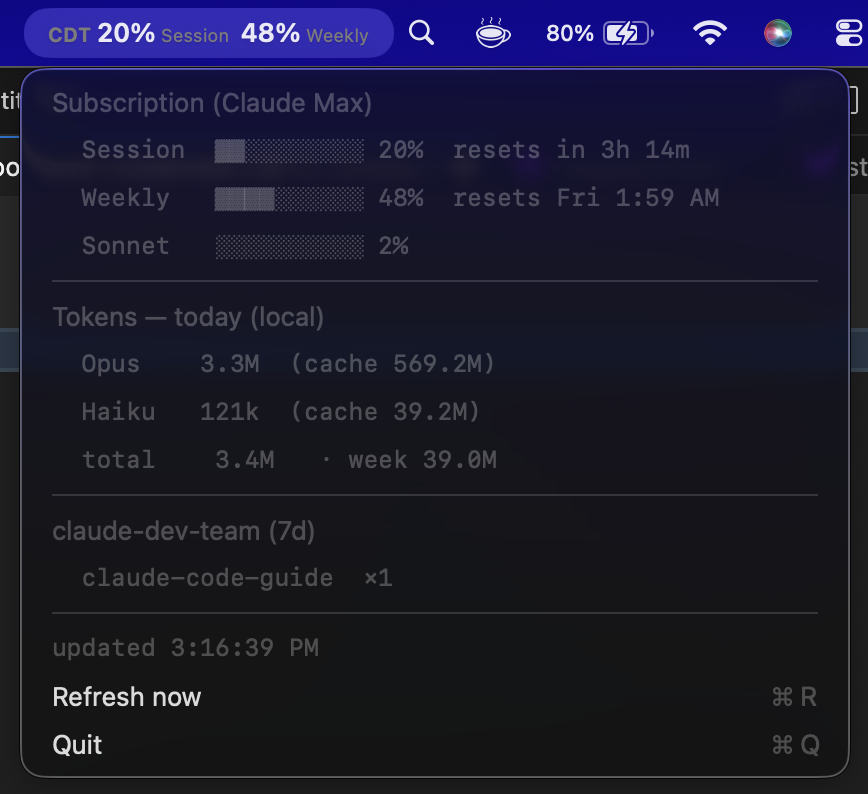
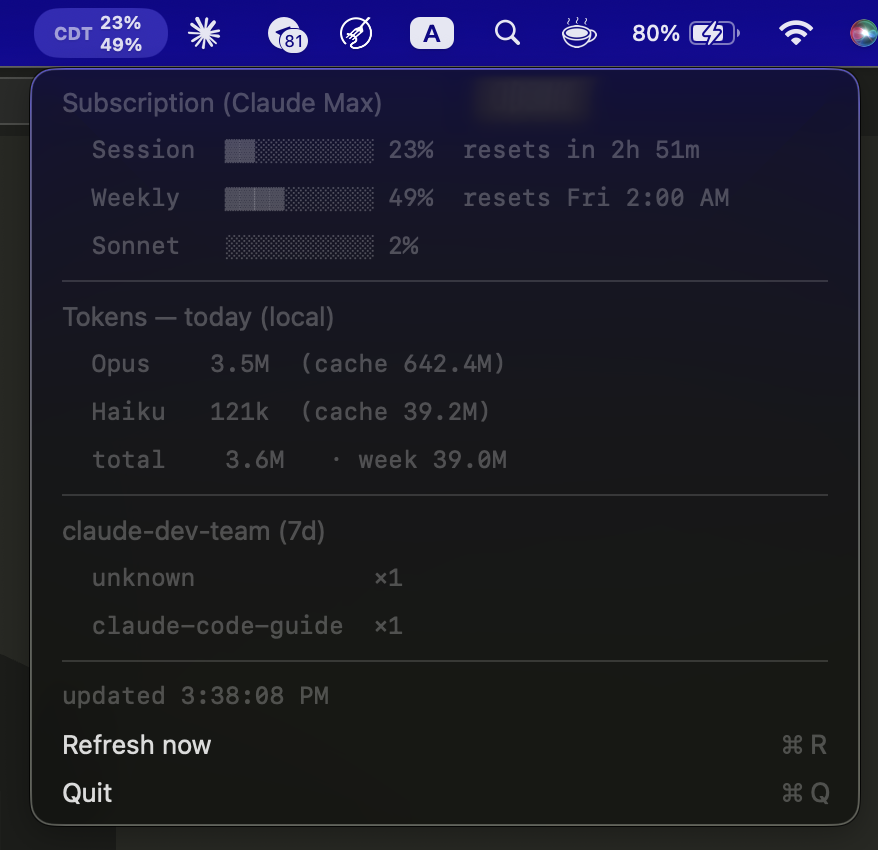
v1.4.7: show sessions in dropdown; README stacked-layout + screenshot; skip unknown agent
The menu bar dropdown's claude-dev-team (7d) panel now surfaces sessions
logged (your chats) alongside specialist subagent dispatches, so the
section reflects real activity. README menu-bar section and screenshot
updated for the stacked CDT layout. SubagentStop hook skips runs with no
identifiable agent type (no more stray 'unknown' rows).

diff --git a/menubar/Sources/cdt-menubar/MenuBarController.swift b/menubar/Sources/cdt-menubar/MenuBarController.swift
@@ -100,12 +100,16 @@ final class MenuBarController: NSObject {
         }
 
         // Dev-team activity
-        if !snap.team.agentRuns.isEmpty || !snap.team.tasksByTier.isEmpty {
+        if snap.team.sessions > 0 || !snap.team.agentRuns.isEmpty || !snap.team.tasksByTier.isEmpty {
             menu.addItem(.separator())
             header("claude-dev-team (7d)")
+            if snap.team.sessions > 0 {
+                line("  \("sessions".padding(toLength: 18, withPad: " ", startingAt: 0)) \(snap.team.sessions)")
+            }
             if !snap.team.tasksByTier.isEmpty {
                 line("  tasks: " + snap.team.tasksByTier.map { "\($0.tier)×\($0.count)" }.joined(separator: " "))
             }
+            // Subagent dispatches (specialists) — rare by design; only when the orchestrator delegates.
             for run in snap.team.agentRuns.prefix(6) {
                 line("  \(run.role.padding(toLength: 18, withPad: " ", startingAt: 0)) ×\(run.count)")
             }

diff --git a/menubar/Sources/cdt-menubar/Models.swift b/menubar/Sources/cdt-menubar/Models.swift
@@ -28,7 +28,8 @@ struct LocalUsage {
 
 // claude-dev-team activity from the SQLite DB.
 struct TeamActivity {
-    var agentRuns: [(role: String, count: Int)] = []
+    var sessions = 0                                      // chats logged in the last 7 days
+    var agentRuns: [(role: String, count: Int)] = []     // subagent dispatches (specialists), by role
     var tasksByTier: [(tier: String, count: Int)] = []
 }
 

diff --git a/menubar/Sources/cdt-menubar/LocalUsage.swift b/menubar/Sources/cdt-menubar/LocalUsage.swift
@@ -105,6 +105,8 @@ func readTeamActivity() -> TeamActivity {
         }
     }
 
+    activity.sessions = Int(query(
+        "SELECT COUNT(*) FROM sessions WHERE started >= '\(cutoff)';").first ?? "") ?? 0
     activity.agentRuns = pairs(query(
         "SELECT agent || '|' || COUNT(*) FROM agent_runs WHERE started >= '\(cutoff)' GROUP BY agent ORDER BY COUNT(*) DESC;"))
     activity.tasksByTier = pairs(query(

diff --git a/README.md b/README.md
@@ -8,7 +8,7 @@
 > writes per-agent **contracts**, dispatches **specialist subagents** in parallel, runs a **quality-gate
 > chain**, gets **independent review**, then **ships** — and remembers what it learned.
 
-![license](https://img.shields.io/badge/license-MIT-blue) ![version](https://img.shields.io/badge/version-1.4.6-green) ![claude code](https://img.shields.io/badge/Claude%20Code-plugin-7C3AED) [![validate](https://github.com/jaysonventura/claude-dev-team/actions/workflows/ci.yml/badge.svg)](https://github.com/jaysonventura/claude-dev-team/actions/workflows/ci.yml)
+![license](https://img.shields.io/badge/license-MIT-blue) ![version](https://img.shields.io/badge/version-1.4.7-green) ![claude code](https://img.shields.io/badge/Claude%20Code-plugin-7C3AED) [![validate](https://github.com/jaysonventura/claude-dev-team/actions/workflows/ci.yml/badge.svg)](https://github.com/jaysonventura/claude-dev-team/actions/workflows/ci.yml)
 
 It is built to be **cost-effective on Claude Max while staying high quality**: cheap work stays cheap
 (most tasks need no team), and the expensive machinery only engages when complexity or risk demands it.
@@ -337,10 +337,13 @@ Code's `/cost`.
 
 ## Menu bar usage monitor (macOS)
 
-A native Swift app (`menubar/`) puts your usage in the menu bar as **`CDT <session%> <weekly%>`** (each
-% color-coded 80/90) — the **real subscription %** (current session, weekly all-models, weekly Sonnet,
-with reset countdowns) from Anthropic's `oauth/usage` endpoint, **plus** accurate local token usage by
-model and dev-team activity in the dropdown.
+A native Swift app (`menubar/`) puts your usage in the menu bar as a compact **`CDT`** badge with the
+**current-session %** stacked over the **weekly %** (each color-coded 80/90) — a deliberately narrow,
+two-line shape that survives a crowded or notched menu bar. Click it for the full dropdown: the **real
+subscription %** (current session, weekly all-models, weekly Sonnet, with reset countdowns) from
+Anthropic's `oauth/usage` endpoint, **plus** accurate local token usage by model and a
+**`claude-dev-team (7d)`** activity panel — sessions logged, tasks by tier, and any specialist
+subagents dispatched.
 
 <p align="center">
   <img src="assets/menubar-screenshot.png" alt="CDT Usage menu bar dropdown" width="440">

diff --git a/CHANGELOG.md b/CHANGELOG.md
@@ -2,6 +2,16 @@
 
 All notable changes to claude-dev-team. Versions follow semver.
 
+## [1.4.7] — 2026-06-15
+### Added
+- Menu bar dropdown's **claude-dev-team (7d)** panel now shows **sessions logged** (your chats), so the
+  section reflects real activity — not just the rarer specialist-subagent dispatches.
+### Changed
+- README: menu-bar section + screenshot updated for the stacked **CDT** layout (session % over weekly %).
+### Fixed
+- No more stray **`unknown`** agent row — the `SubagentStop` hook skips runs with no identifiable agent
+  type (takes effect in any session started on ≥1.4.6).
+
 ## [1.4.6] — 2026-06-15
 ### Changed
 - Menu bar keeps the **CDT** label, with the stacked session %/weekly % beside it (CDT left, percentages